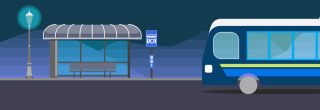
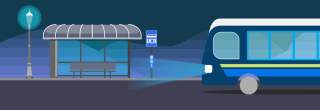
[BusStopClient] Update background and update light/dark theme

diff --git a/Source/MeadowSamples/BusStopClient/Controllers/DisplayController.cs b/Source/MeadowSamples/BusStopClient/Controllers/DisplayController.cs
@@ -18,6 +18,8 @@ namespace BusStopClient.Controllers
             new Lazy<DisplayController>(() => new DisplayController());
         public static DisplayController Instance => instance.Value;
 
+        bool currentTheme;
+
         MicroGraphics graphics;
         Font12x20 large;
         Font8x12 medium;
@@ -54,22 +56,33 @@ namespace BusStopClient.Controllers
             large = new Font12x20();
             medium = new Font8x12();
 
-            SetTheme();
+            currentTheme = true;
         }
 
-        public void SetTheme()
+        public bool IsChangeThemeTime() 
         {
             var today = DateTime.Now;
             var sunset = DaylightTimes.GetDaylight(today.Month).Sunset;
             var sunrise = DaylightTimes.GetDaylight(today.Month).Sunrise;
 
-            bool isDaylight = today.TimeOfDay >= sunrise.TimeOfDay 
+            bool actualTheme = today.TimeOfDay >= sunrise.TimeOfDay
                 && today.TimeOfDay <= sunset.TimeOfDay;
 
-            backgroundColor = isDaylight ? ColorConstants.DayBackground : ColorConstants.NightBackground;
-            fontColor = isDaylight ? ColorConstants.DarkFont : ColorConstants.LightFont;
-            backgroundImage = isDaylight ? ImageConstants.DayBackground : ImageConstants.NightBackground;
-            stopSignImage = isDaylight ? ImageConstants.DayStopSign : ImageConstants.NightStopSign;
+            if (currentTheme != actualTheme)
+            {
+                currentTheme = actualTheme;
+                return true;
+            }
+
+            return false;
+        }
+
+        public void UpdateTheme()
+        {
+            backgroundColor = currentTheme ? ColorConstants.DayBackground : ColorConstants.NightBackground;
+            fontColor = currentTheme ? ColorConstants.DarkFont : ColorConstants.LightFont;
+            backgroundImage = currentTheme ? ImageConstants.DayBackground : ImageConstants.NightBackground;
+            stopSignImage = currentTheme ? ImageConstants.DayStopSign : ImageConstants.NightStopSign;
         }
 
         public void DrawSplashScreen() 

diff --git a/Source/MeadowSamples/BusStopClient/MeadowApp.cs b/Source/MeadowSamples/BusStopClient/MeadowApp.cs
@@ -48,30 +48,20 @@ namespace BusStopClient
         {
             busStop = await BusService.Instance.GetStopInfoAsync(BUS_STOP_NUMBER);
 
-            DisplayController.Instance.SetTheme();
-
+            DisplayController.Instance.UpdateTheme();
             DisplayController.Instance.DrawBackgroundAndStopInfo();
-
             DisplayController.Instance.DrawStopInfo(busStop);
 
             while (true)
             {
                 onboardLed.StartPulse(Color.Orange, 1, 0);
 
-                var today = DateTime.Now;
-                var sunset = DaylightTimes.GetDaylight(today.Month).Sunset;
-                var sunrise = DaylightTimes.GetDaylight(today.Month).Sunrise;
-
-                if (today.TimeOfDay >= sunrise.TimeOfDay
-                    && today.TimeOfDay <= sunset.TimeOfDay) 
+                if (DisplayController.Instance.IsChangeThemeTime()) 
                 {
-                    DisplayController.Instance.SetTheme();
+                    DisplayController.Instance.UpdateTheme();
                     DisplayController.Instance.DrawBackgroundAndStopInfo();
                     DisplayController.Instance.DrawStopInfo(busStop);
                 }
-
-                
-                //Console.WriteLine($"{today.Year}/{today.Month}/{today.Day} {today.Hour}:{today.Minute}:{today.Second}");
 
                 var arrivals = await BusService.Instance.GetSchedulesAsync(BUS_STOP_NUMBER);
                 DisplayController.Instance.DrawBusArrivals(arrivals);

diff --git a/Source/MeadowSamples/BusStopClient/Services/DateTimeService.cs b/Source/MeadowSamples/BusStopClient/Services/DateTimeService.cs
@@ -13,7 +13,7 @@ namespace BusStopClient.Services
             new Lazy<DateTimeService>(() => new DateTimeService());
         public static DateTimeService Instance => instance.Value;
 
-        static string clockDataUri = "http://worldtimeapi.org/api/timezone/America/Vancouver/";
+        static string clockDataUri = "http://worldtimeapi.org/api/timezone/America/[CITY]/";
 
         static DateTimeService() { }
 
